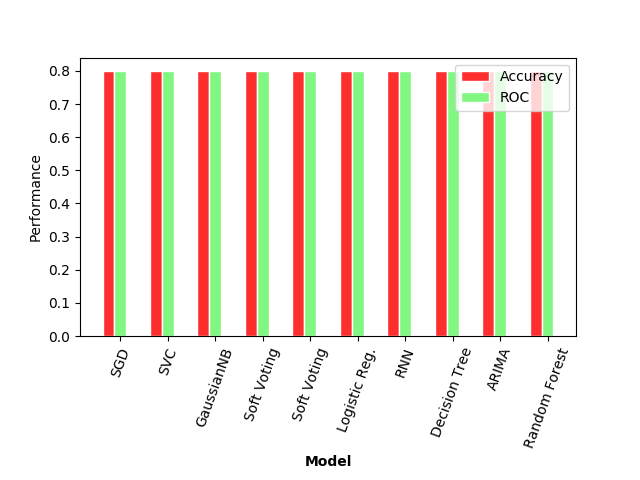
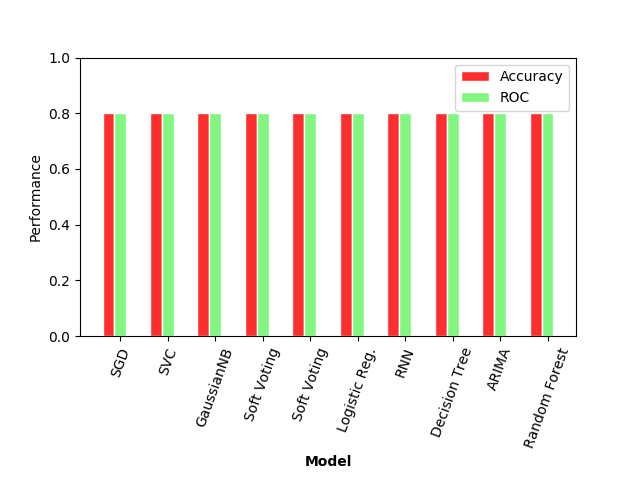
Model comparison plot adjusted

diff --git a/3 Data Modeling/Predictive/modelComparison.py b/3 Data Modeling/Predictive/modelComparison.py
@@ -33,6 +33,8 @@ plt.legend(legend, loc=1)
 
 #Make Bottom visible
 plt.gcf().subplots_adjust(bottom=0.3)
+axes = plt.gca()
+axes.set_ylim([0, 1])
 
 # Create legend & Show graphic
 #plt.show()
